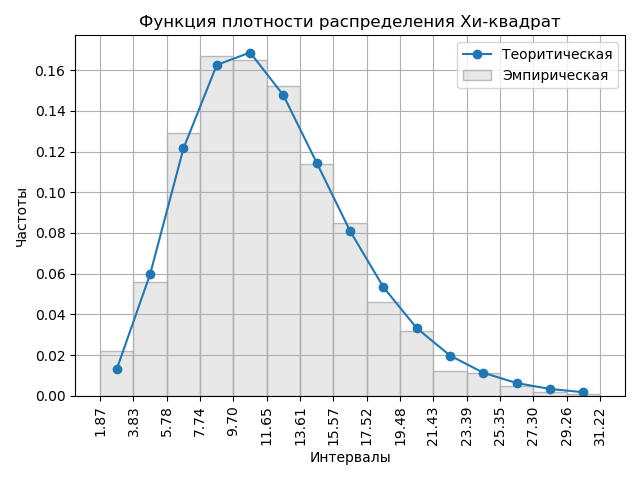
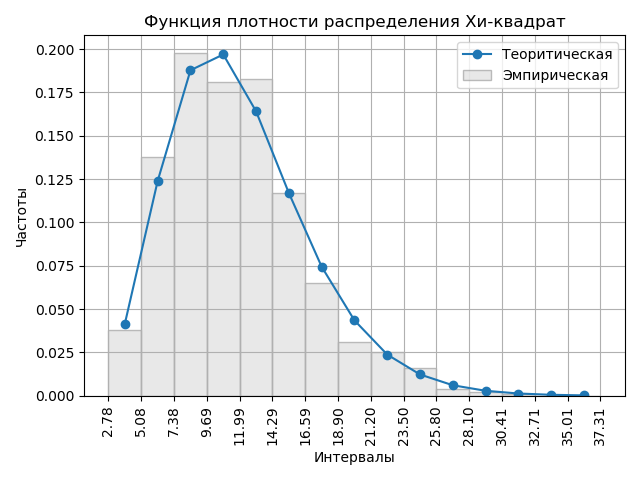
rgz - Chi square can be operated with an odd factor

diff --git a/RGZ/algorithms.py b/RGZ/algorithms.py
@@ -16,18 +16,21 @@ def muller_method():
 
 
 # Нормальное распределение
-def normal_distribution(counter=[0, 0.0, 0.0]):
-    if counter[0] % 2 == 0:
-        counter[1], counter[2] = muller_method()
+def normal_distribution(even=[True], eps=[0.0, 0.0]):
+    if even[0] == True:
+        eps[0], eps[1] = muller_method()
     else:
-        counter[1] = counter[2]
-    counter[0] += 1
-    return counter[1]
+        eps[0] = eps[1]
+    even[0] = not even[0]
+    return eps[0]
 
 
 # Распределение Хи-квадрат
 def chi2_distribution(k):
-    return sum(val**2 for sub in (muller_method() for _ in range(k // 2)) for val in sub)
+    result = sum(val**2 for sub in (muller_method() for _ in range(k // 2)) for val in sub)
+    if k % 2 != 0:
+        result += muller_method()[0]
+    return result
 
 
 # Распределения Фишера (Основное распределение)
